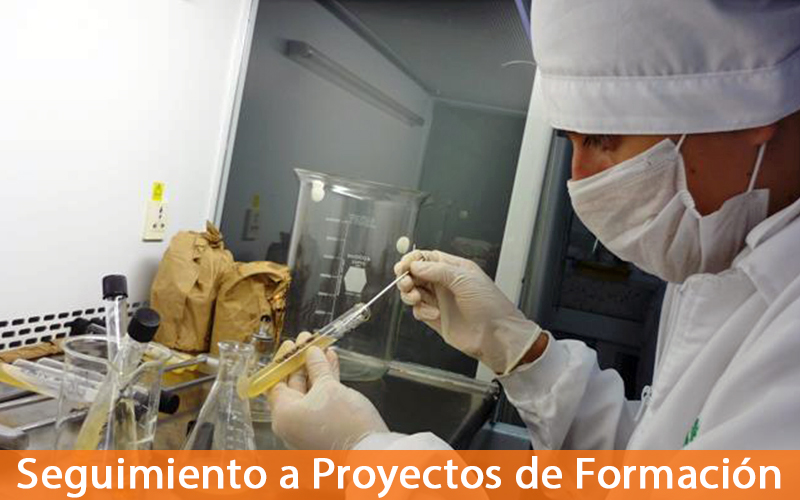
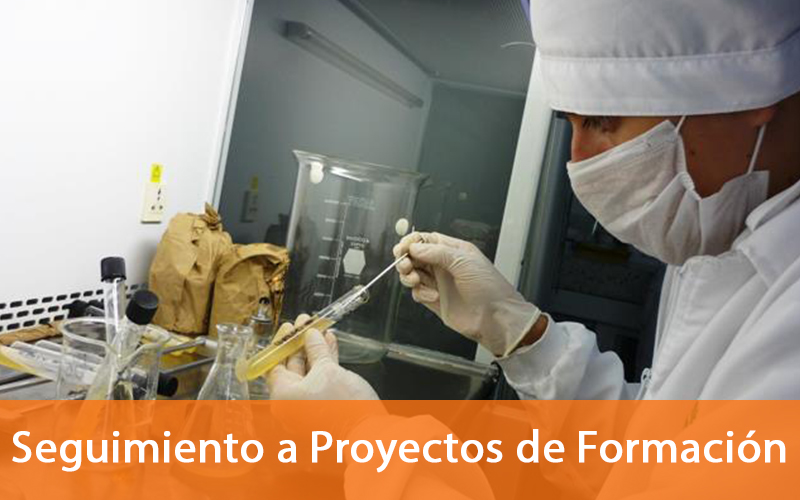
index principal

diff --git a/web/resources/css/agefinicio.css b/web/resources/css/agefinicio.css
@@ -738,6 +738,7 @@ font-size:25px;
 #Layoutbanner {
 	clear: both;
 	float: left;
+        margin-top: 0%;
 	margin-left: 0;
 	width: 100%;
 	display: block;
@@ -821,13 +822,13 @@ font-size:25px;
 	clear: both;
 	float: inherit;
 	margin-left: 0;
-	width: 30.3797%;
+	width: 20.3797%;
 	display: block;
 }
 #logo {
 	position: absolute;
-	width: 19%;
-	height: 19%;
+	width: 16%;
+	height: 16%;
 	z-index: 1;
 }
 /*#Layoutcontenido {
@@ -845,15 +846,15 @@ font-size:25px;
 #Layoutlogin {
 	clear: none;
 	float: right;
-	margin-left: 1.2658%;
-	width: 24.0506%;
+	margin-right: 8.2658%;
+	width: 19.0506%;
 	display: block;
 	margin-top: 0%;
 	font-family: "Myriad Pro";
 	background-color: #59B548;
 	border-radius: 0px;
-	font-size: 18px;
-	color: #FFF;
+	font-size: 13px;
+	color: #000;
 	text-align: center;
 }
 #Layoutm1 {
@@ -930,9 +931,9 @@ font-size:25px;
 	display: block;
 	position: relative;
 	width: 74.6835%;
-	max-width: 57%;
+	max-width: 50%;
 	max-height: 55%;
-        margin-left: 9%;
+        margin-left: 12.7%;
 	overflow: hidden;
 	clear: both;
 	float: left;
@@ -1039,6 +1040,7 @@ font-size:25px;
 	float: left;
 	margin-left: 0;
 	width: 100%;
+        
 	display: block;
 }
 
@@ -1054,6 +1056,7 @@ font-size:25px;
 	clear: both;
 	float: left;
 	margin-left: 0;
+        margin-top: -3%;
 	width: 74.6835%;
 	display: block;
 }
